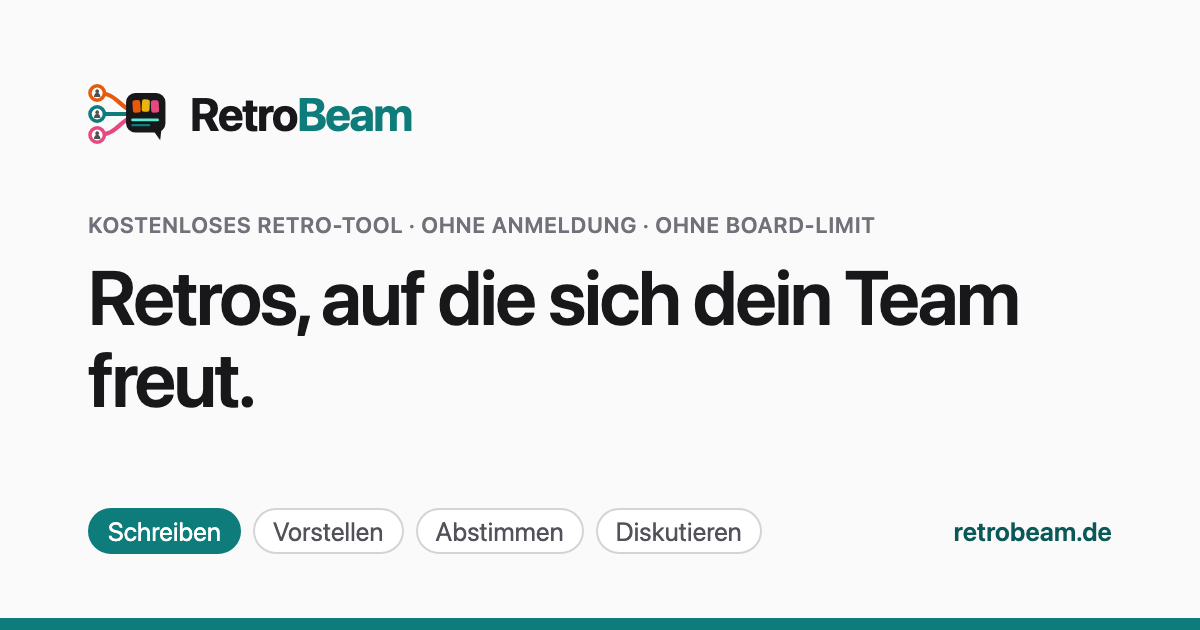
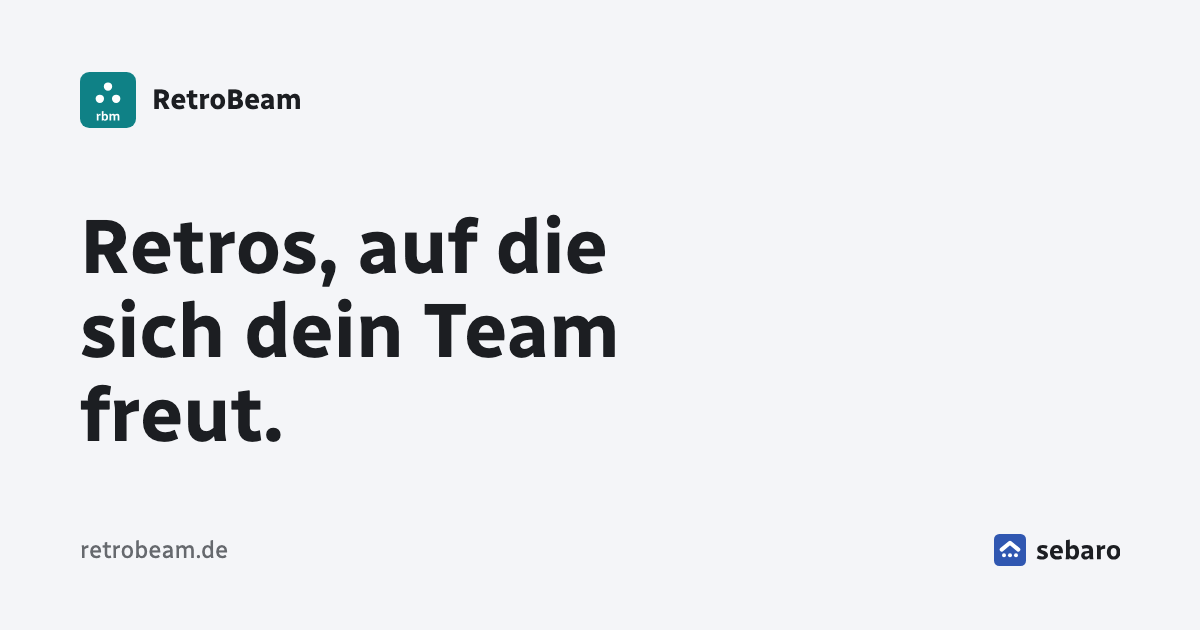
feat(web): the share image from sebaro's template (stage 6c, part 2)
F28 a: one image for /, rendered with the export's brand/og/render.mjs
from design/og/og-pages.json (`pnpm og`), its head tags thrown away —
index.html writes its own, without og:url or canonical, because every route
shares that file and a board URL is an access right. The template's sebaro
mark stays (owner, 2026-11-06). og.png is a reserved mark now
(LicenseRef-sebaro-reserved in its .license); design/og-image/og.html is
marked historical. The render is reproducible: a second run writes the same
bytes.

diff --git a/design/og-image/og.html b/design/og-image/og.html
@@ -3,7 +3,12 @@
 SPDX-FileCopyrightText: 2026 Sebastian Grundhöfer
 SPDX-License-Identifier: AGPL-3.0-or-later
 
-Source of apps/web/public/og.png, the link-preview image. Built from the app's
+HISTORICAL (stage 6c of the sebaro move): no longer the source of og.png.
+Since then the image is rendered from design/og/og-pages.json with the sebaro
+export's brand/og/render.mjs (pnpm og; plan §2.4 F28 a). Kept to show the
+image before the move.
+
+Formerly the source of apps/web/public/og.png, the link-preview image. Built from the app's
 own tokens (zinc surfaces, teal #0e7c7b, system type, the real brand mark) and
 no webfont, like the landing page. Regenerate after a copy change by
 screenshotting this file with Playwright at exactly 1200x630,
